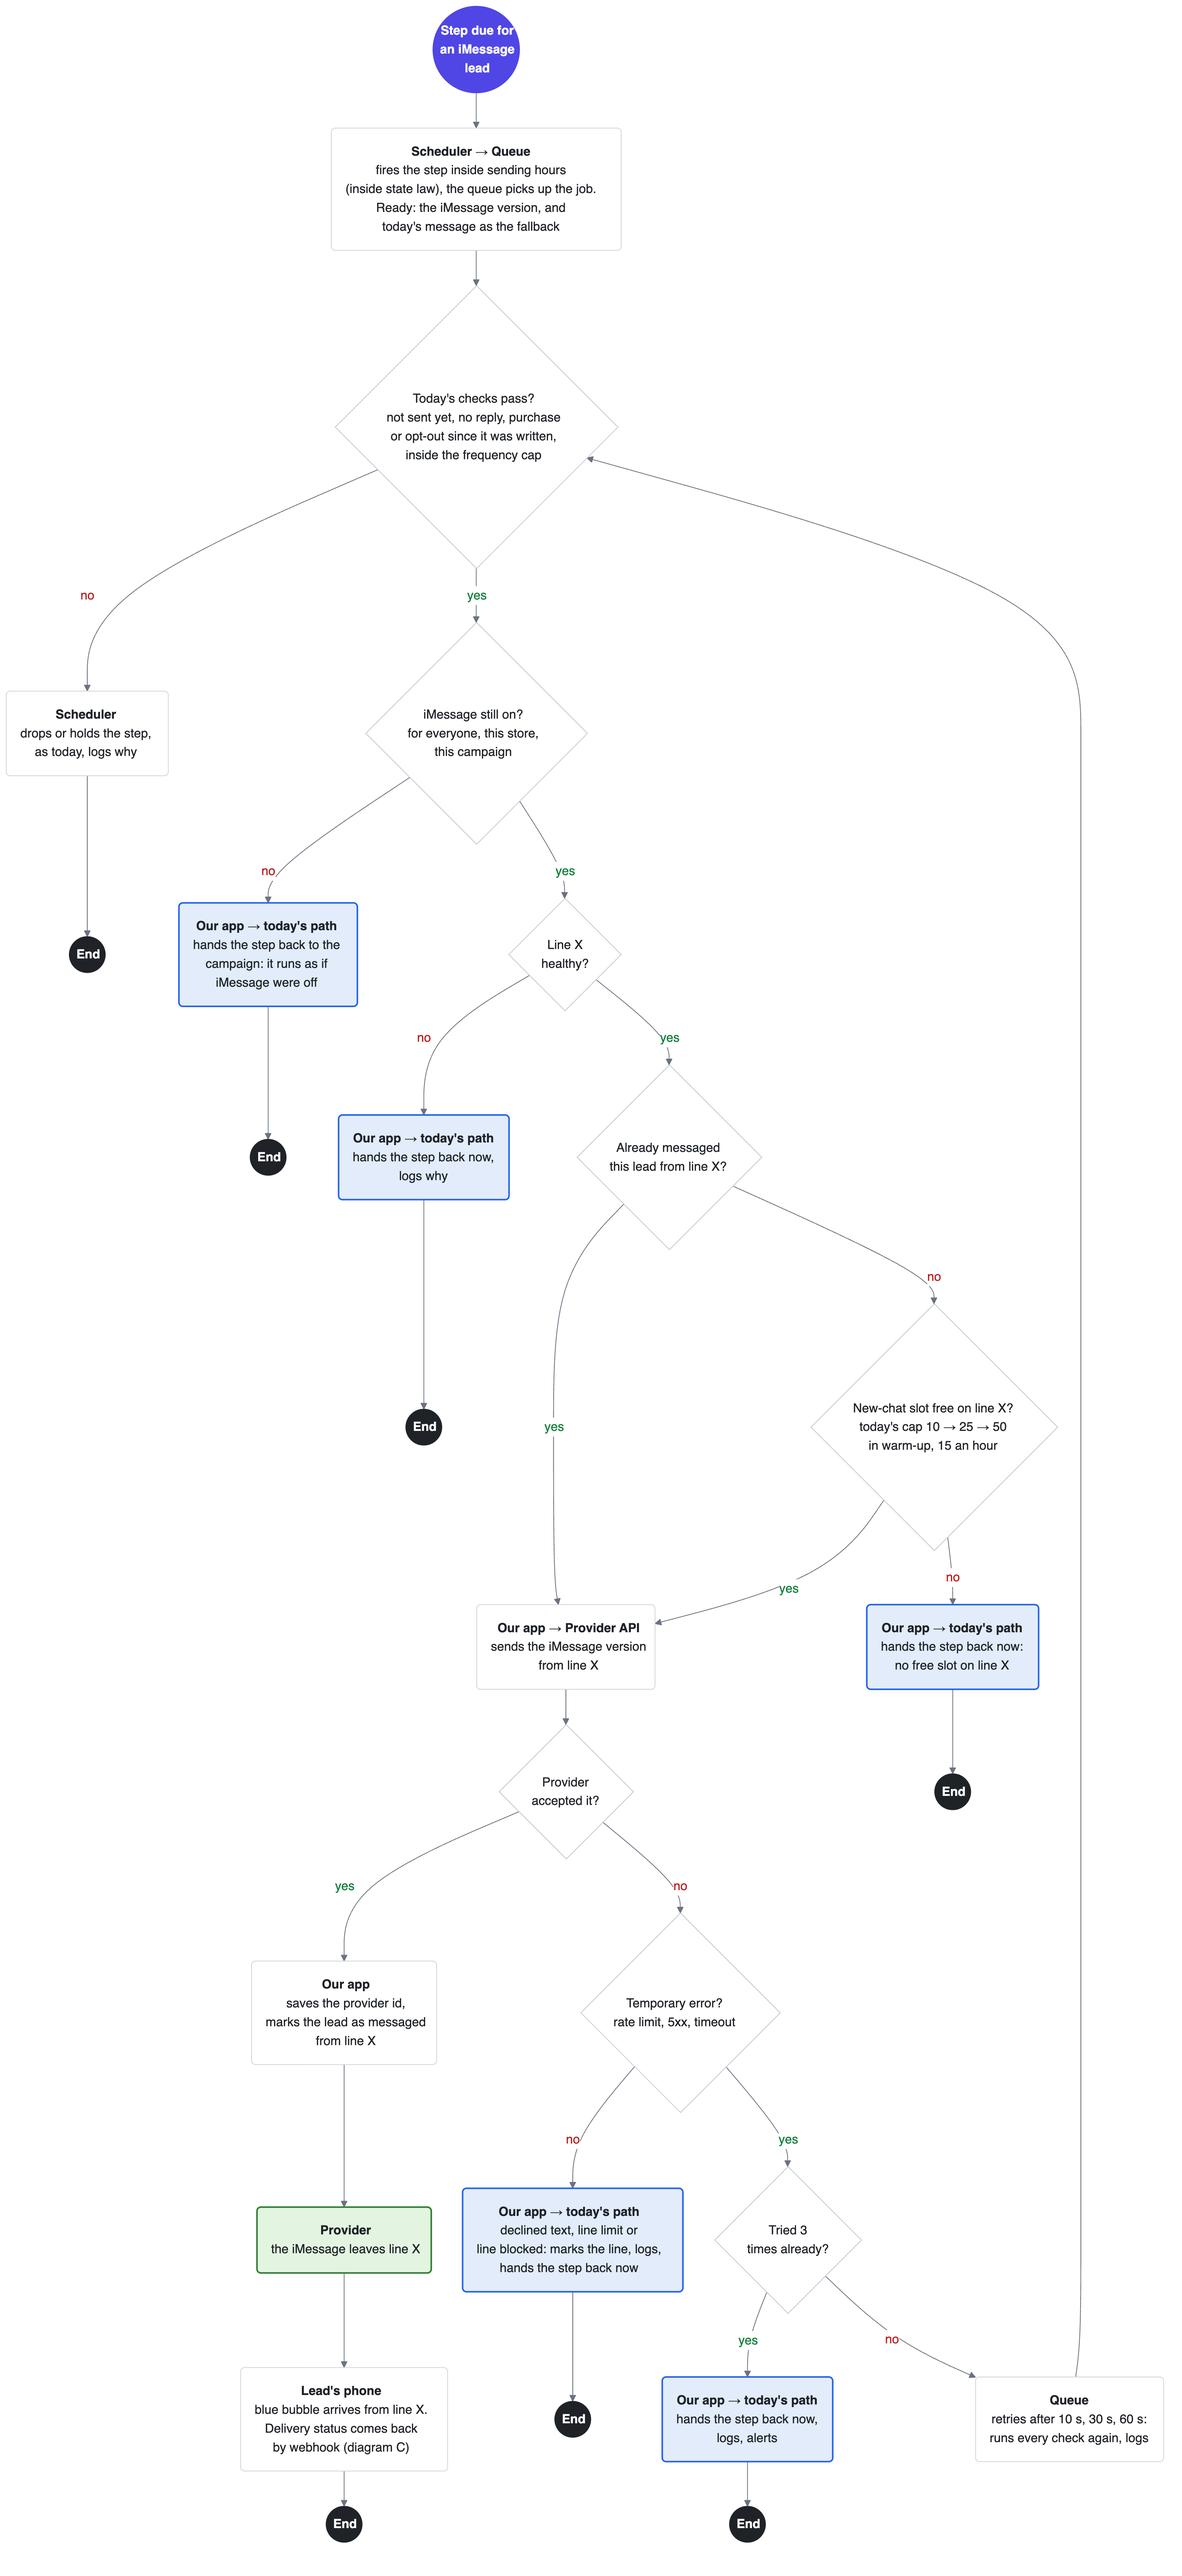
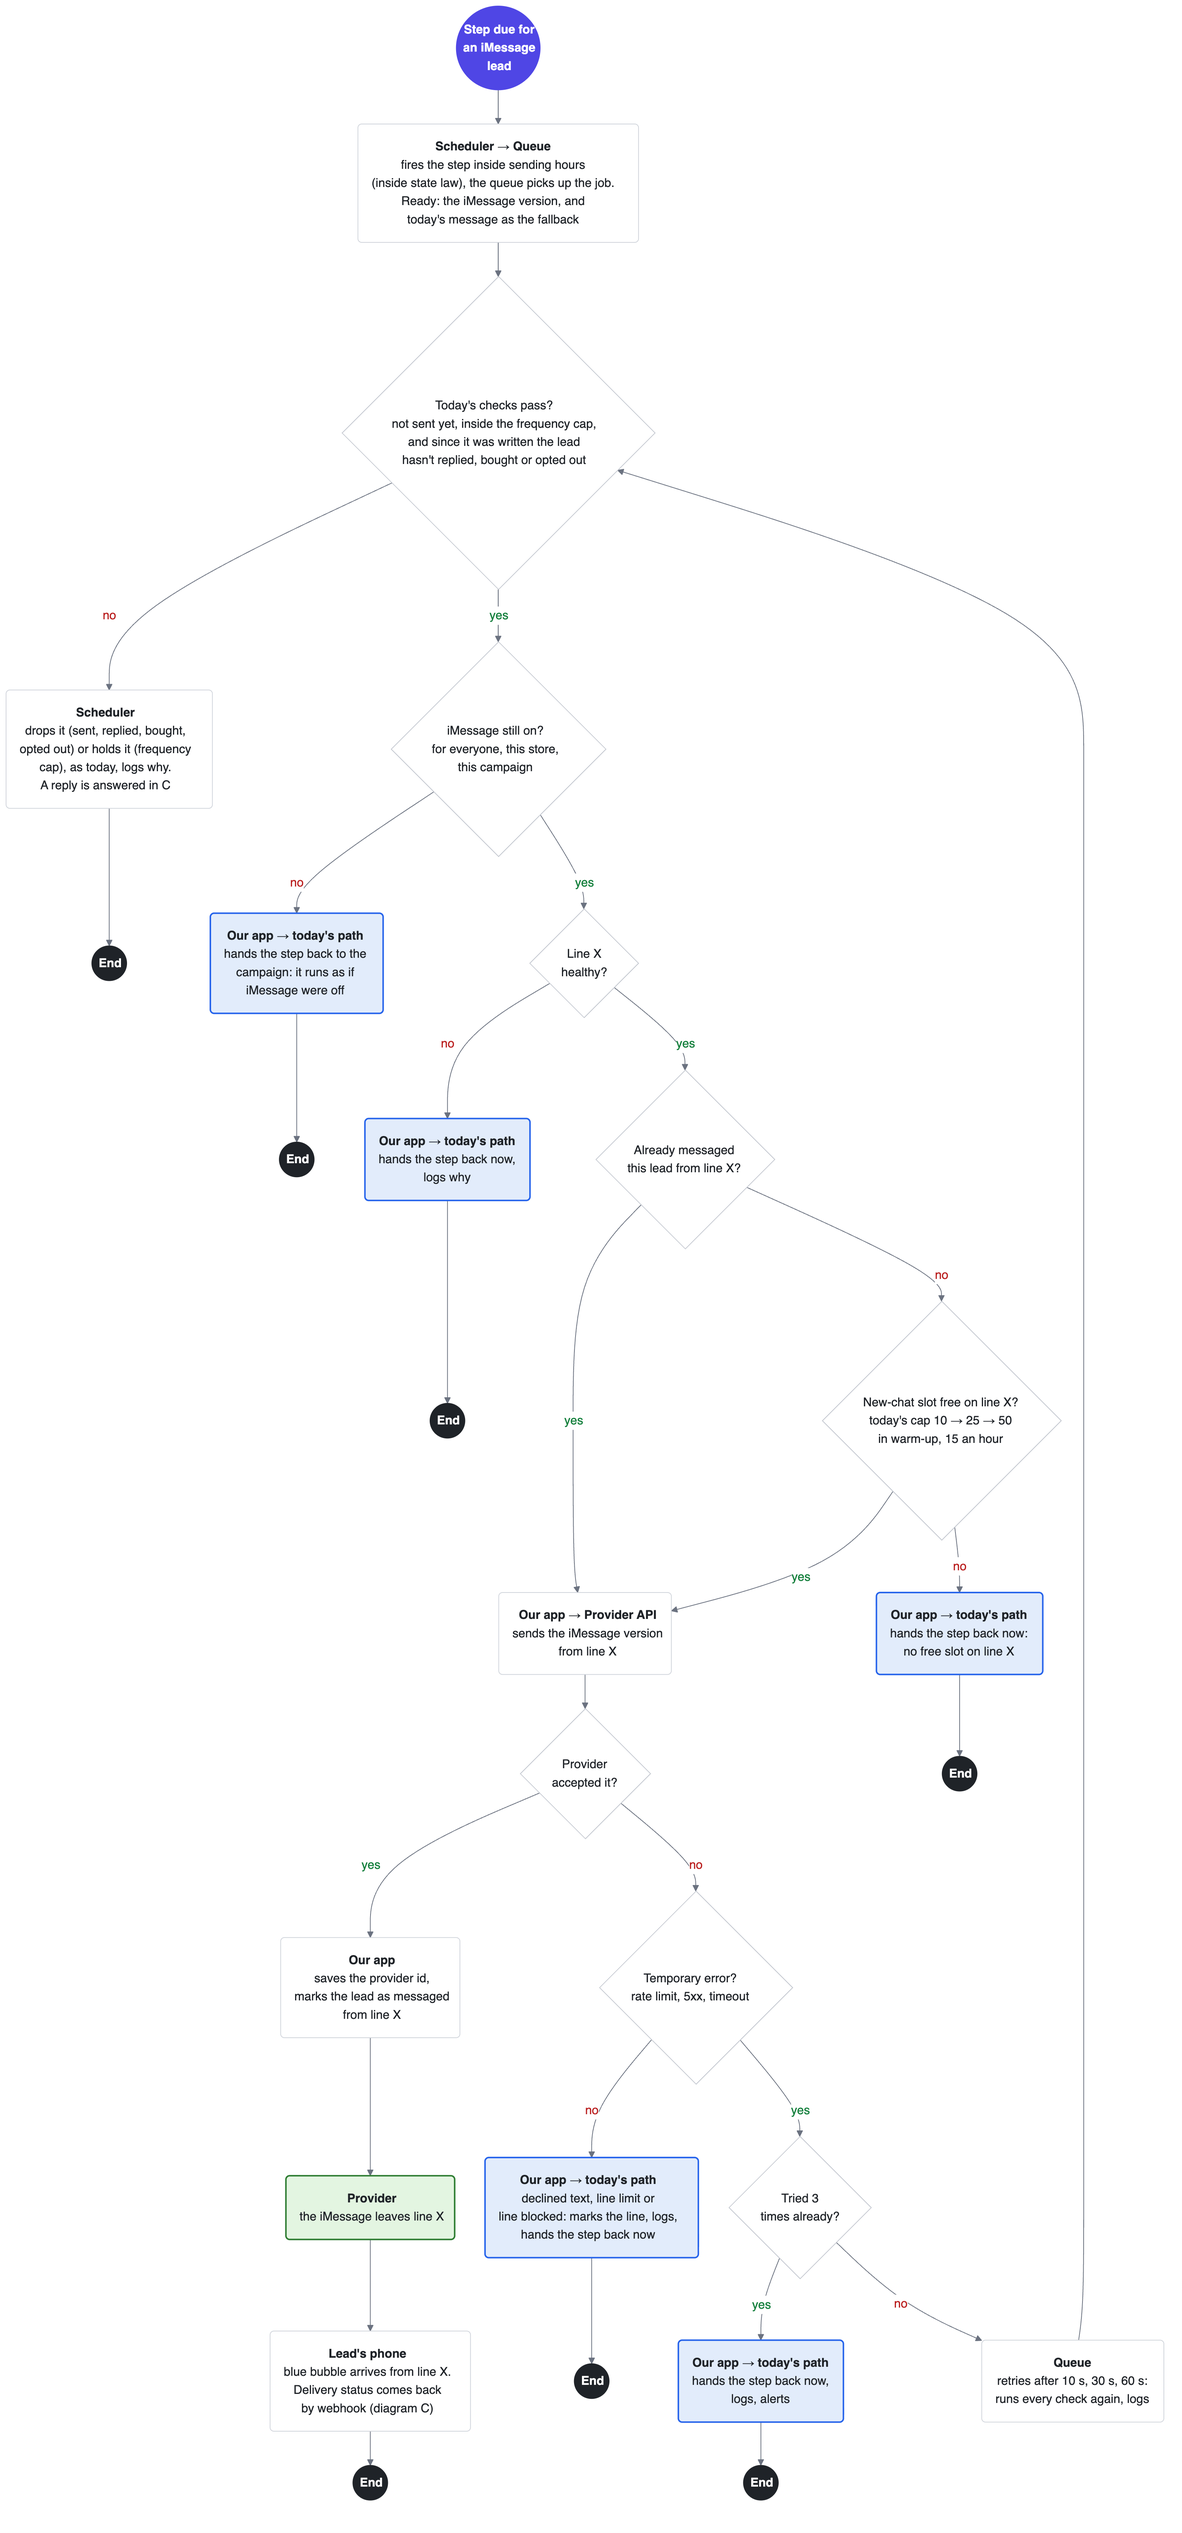
Diagram B: today's checks name the reply plainly, and say a reply is answered in C

diff --git a/diagrams.md b/diagrams.md
@@ -38,8 +38,8 @@ Back to the plan: [README.md](README.md)
 %%{init: {"theme": "base", "themeVariables": {"fontFamily": "Helvetica, Arial, sans-serif", "primaryColor": "#ffffff", "primaryBorderColor": "#d0d4db", "primaryTextColor": "#1f2328", "lineColor": "#6b7280", "edgeLabelBackground": "#ffffff"}, "themeCSS": "foreignObject { overflow: visible; } .nodeLabel { white-space: nowrap; }", "flowchart": {"curve": "basis", "nodeSpacing": 40, "rankSpacing": 45, "padding": 18}}}%%
 flowchart TD
     S(("<b>Step due for<br/>an iMessage<br/>lead</b>")) --> A1("<b>Scheduler → Queue</b><br/>fires the step inside sending hours<br/>(inside state law), the queue picks up the job.<br/>Ready: the iMessage version, and<br/>today's message as the fallback")
-    A1 --> Q0{"Today's checks pass?<br/>not sent yet, no reply, purchase<br/>or opt-out since it was written,<br/>inside the frequency cap"}
-    Q0 -- no --> X3("<b>Scheduler</b><br/>drops or holds the step,<br/>as today, logs why") --> E0(("<b>End</b>"))
+    A1 --> Q0{"Today's checks pass?<br/>not sent yet, inside the frequency cap,<br/>and since it was written the lead<br/>hasn't replied, bought or opted out"}
+    Q0 -- no --> X3("<b>Scheduler</b><br/>drops it (sent, replied, bought,<br/>opted out) or holds it (frequency<br/>cap), as today, logs why.<br/>A reply is answered in C") --> E0(("<b>End</b>"))
     Q0 -- yes --> QI{"iMessage still on?<br/>for everyone, this store,<br/>this campaign"}
     QI -- no --> SMS1("<b>Our app → today's path</b><br/>hands the step back to the<br/>campaign: it runs as if<br/>iMessage were off"):::sms --> E2(("<b>End</b>"))
     QI -- yes --> Q7{"Line X<br/>healthy?"}
